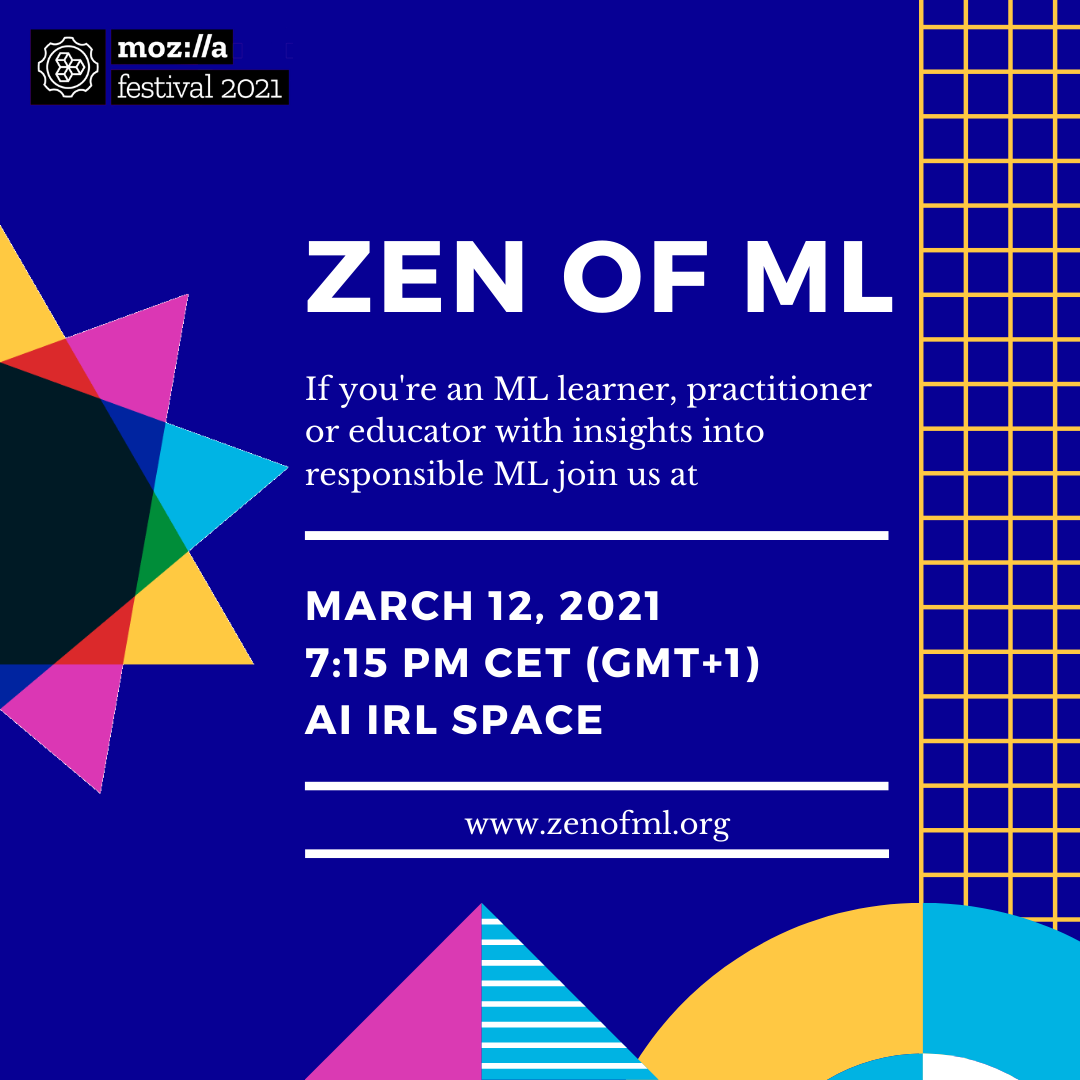
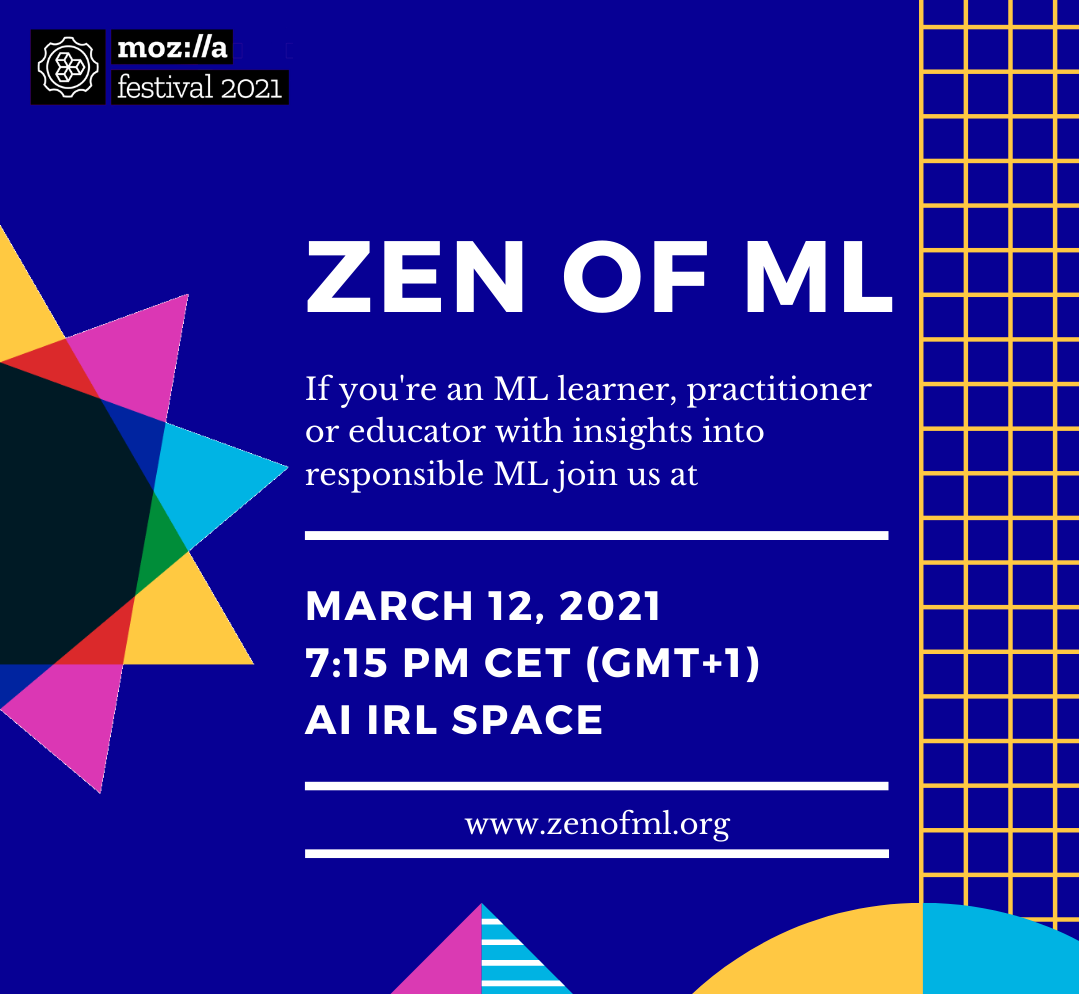
updated projects

diff --git a/_pages/projects.md b/_pages/projects.md
@@ -5,7 +5,7 @@ title: Projects
 description:
 ---
 
-[<img class="col one first" style="padding-left: 20px; padding-right: 20px; float: left" src="{{ site.baseurl }}/assets/img/zenofml_poster_smaller.png" >]()
+[<img class="col one first" style="padding-left: 20px; padding-right: 20px; float: left" src="{{ site.baseurl }}/assets/img/zenofml_poster.png" >]()
 
 ## Zen of Machine Learning
 
@@ -17,7 +17,7 @@ The <a href="https://www.zenofml.org/" target="_blank">Zen of Machine Learning</
 
 ## [Big Data for Household Energy Insights](../projects/2019_household_energy_insights.markdown)
 
-The Big Data for Household Energy Insights project is housed at the Energy Research Centre at the University of Cape Town. The goals of the project are to provide strategic support and leadership to convene and mobilise key stakeholders towards building big data capabilities for domestic load research, and to deliver technical data science and stewardship activities in this regard. The project has delivered South Africa's first online datasets of <a href="https://www.datafirst.uct.ac.za/dataportal/index.php/catalog/NRSLR/about" target="_blank">Domestic Electrical Load</a> (DEL) studies.
+The Big Data for Household Energy Insights project is housed at the Energy Research Centre at the University of Cape Town. The goals of the project are to provide strategic support and leadership to convene and mobilise key stakeholders towards building big data capabilities for domestic load research, and to deliver technical data science and stewardship activities in this regard. The project has delivered South Africa's first online datasets of Domestic Electrical Load (DEL) studies.
 
 ---
 
@@ -33,7 +33,7 @@ Data for Municipal Infrastructure Assets (Data4MIA) is a student internship prog
 
 ## [Engineers Without Borders South Africa](../projects/2019_ewbsa.markdown)
 
-<a href="https://www.ewbsa.org" target="_blank">Engineers Without Borders South Africa</a> (EWB-SA) is a non-profit organisation established in 2013 with a mission to empower engineers to empower communities. Since its establishment, EWB-SA has been focused on delivering programmes for youth leadership and engineering education, as well as social impact projects through our national chapter network. In 2018 EWB-SA established a unique partnership with EWB-UK and EWB-USA to collaborate on expanding the <a href="https://www.ewb-uk.org/the-work/design-challenges/engineering-for-people-design-challenge/" target="_blank">Engineering for People Design Challenge</a> to an international audience while delivering a first-of-its-kind engineering education curriculum transformation programme to South African universities.
+Engineers Without Borders South Africa (EWB-SA) is a non-profit organisation established in 2013 with a mission to empower engineers to empower communities. Since its establishment, EWB-SA has been focused on delivering programmes for youth leadership and engineering education, as well as social impact projects through our national chapter network. Over the last decade EWB-SA has impacted hundreds of engineering students in South Africa, and has made significant contributions to engineering curriculum transformation.
 
 ---
 
